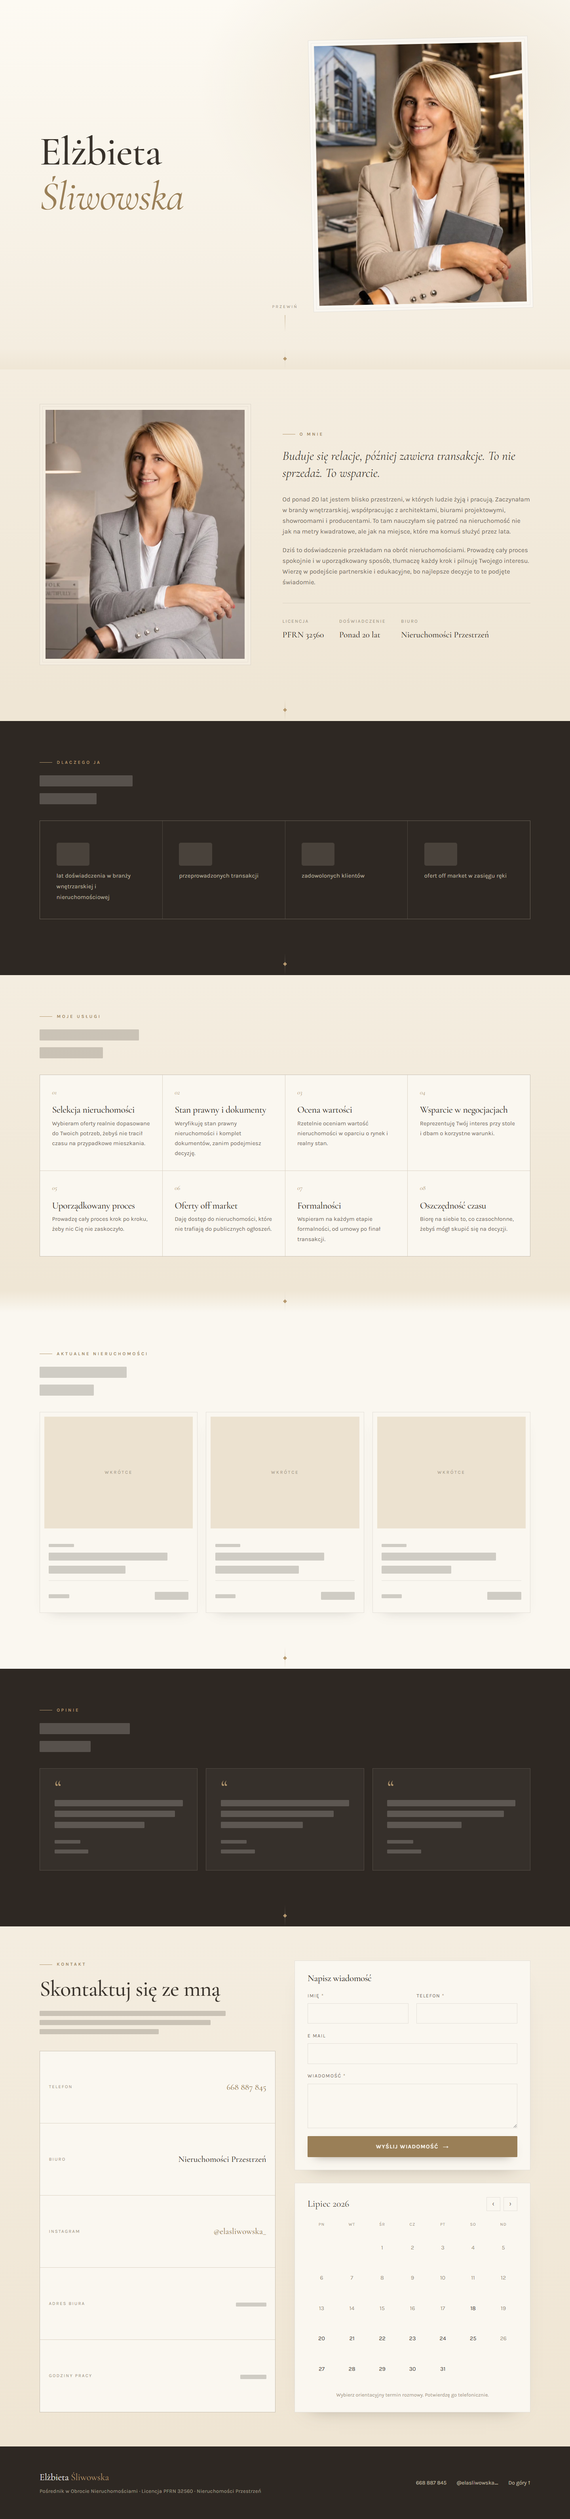
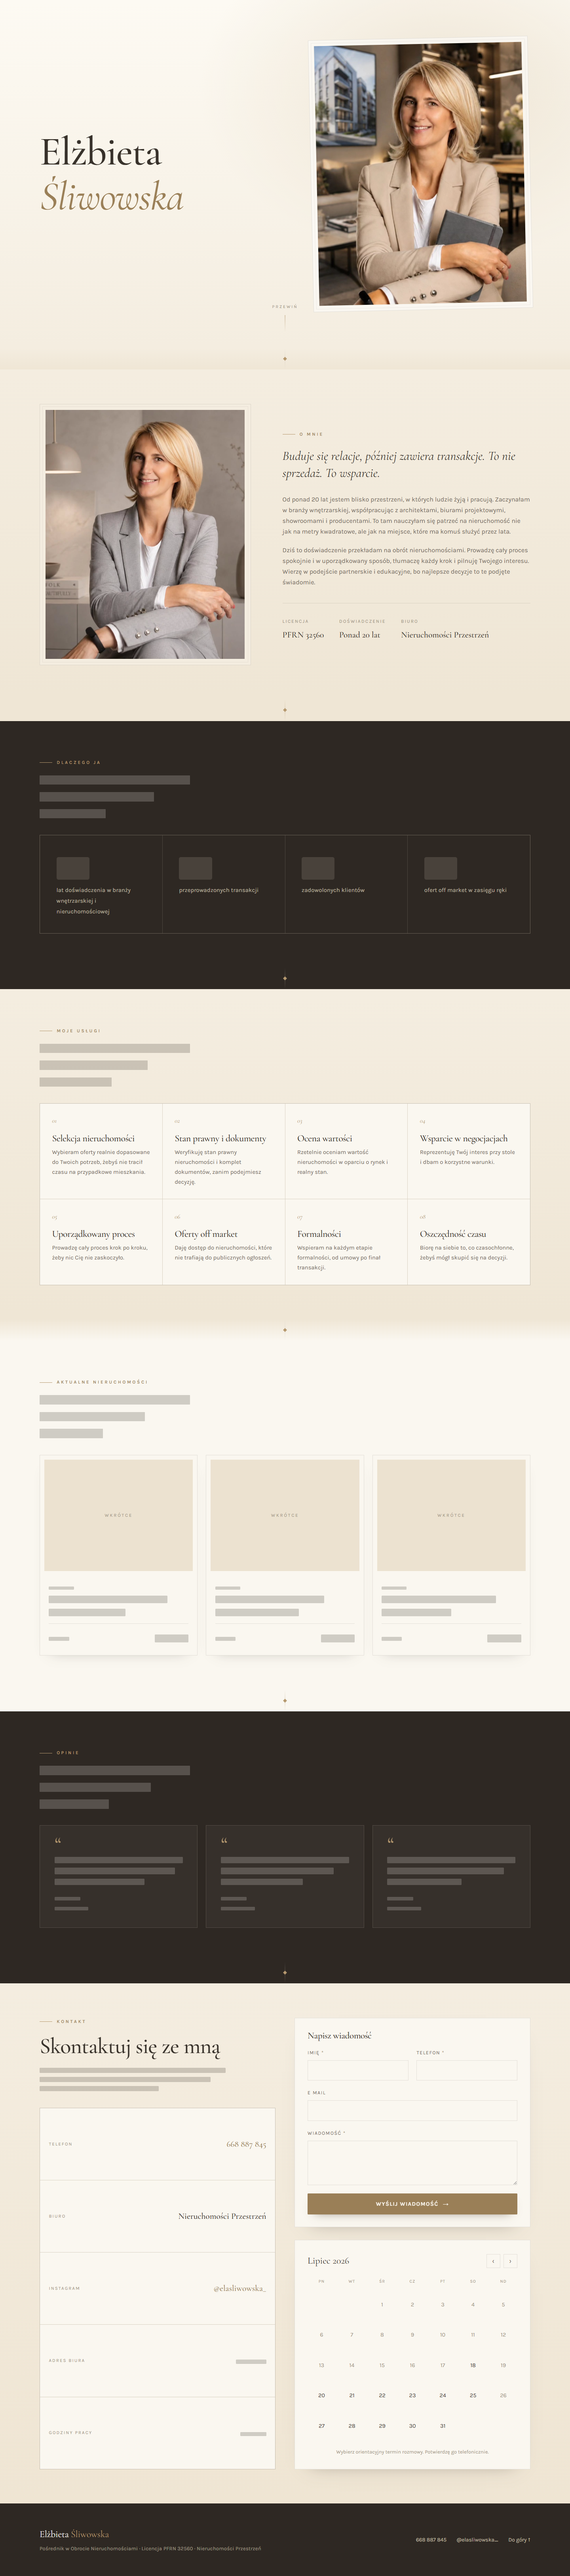
m

diff --git a/index.html b/index.html
@@ -61,8 +61,8 @@ img{display:block;max-width:100%}
 .skel-line{height:.72em;width:7ch;margin-block:.25em}
 .skel-lines{display:flex;flex-direction:column;gap:.55em;width:100%}
 .skel-lines .skel-line{margin:0;height:.78em}
-.h-sec .skel-lines{gap:.3em;max-width:18ch}
-.h-sec .skel-line{height:.5em}
+.h-sec .skel-lines{gap:.34em;max-width:20ch}
+.h-sec .skel-line{height:.42em;border-radius:1px}
 .soon{position:absolute;inset:0;z-index:3;display:flex;align-items:center;justify-content:center;font-size:.72rem;letter-spacing:.24em;text-transform:uppercase;color:var(--ink-faint)}
 
 .frame{position:relative;padding:.9rem;background:var(--cream-2);border:1px solid var(--line)}
@@ -361,7 +361,7 @@ body.no-anim .reveal>*{opacity:1;transform:none}
   <div class="shell">
     <div class="stats-head reveal">
       <div class="tag"><span class="eyebrow">Dlaczego ja</span></div>
-      <h2 class="h-sec"><span class="skel-lines" data-token="{{DLACZEGO_JA_TYTUL}}"><span class="skel skel-line" style="width:62%"></span><span class="skel skel-line" style="width:38%"></span></span></h2>
+      <h2 class="h-sec"><span class="skel-lines" data-token="{{DLACZEGO_JA_TYTUL}}"><span class="skel skel-line" style="width:100%"></span><span class="skel skel-line" style="width:76%"></span><span class="skel skel-line" style="width:44%"></span></span></h2>
     </div>
     <!-- Liczby ponizej to placeholdery. Tokeny w data-token (Ctrl F). Nigdy nie wpisuj tu wymyslonych wartosci. -->
     <div class="stats reveal">
@@ -379,7 +379,7 @@ body.no-anim .reveal>*{opacity:1;transform:none}
   <div class="shell">
     <div class="stats-head reveal">
       <div class="tag"><span class="eyebrow">Moje usługi</span></div>
-      <h2 class="h-sec"><span class="skel-lines" data-token="{{MOJE_USLUGI_TYTUL}}"><span class="skel skel-line" style="width:66%"></span><span class="skel skel-line" style="width:42%"></span></span></h2>
+      <h2 class="h-sec"><span class="skel-lines" data-token="{{MOJE_USLUGI_TYTUL}}"><span class="skel skel-line" style="width:100%"></span><span class="skel skel-line" style="width:72%"></span><span class="skel skel-line" style="width:48%"></span></span></h2>
     </div>
     <div class="svc reveal">
       <div class="svc-item"><span class="idx">01</span><h3>Selekcja nieruchomości</h3><p>Wybieram oferty realnie dopasowane do Twoich potrzeb, żebyś nie tracił czasu na przypadkowe mieszkania.</p></div>
@@ -400,7 +400,7 @@ body.no-anim .reveal>*{opacity:1;transform:none}
   <div class="shell">
     <div class="stats-head reveal">
       <div class="tag"><span class="eyebrow">Aktualne nieruchomości</span></div>
-      <h2 class="h-sec"><span class="skel-lines" data-token="{{NIERUCHOMOSCI_TYTUL}}"><span class="skel skel-line" style="width:58%"></span><span class="skel skel-line" style="width:36%"></span></span></h2>
+      <h2 class="h-sec"><span class="skel-lines" data-token="{{NIERUCHOMOSCI_TYTUL}}"><span class="skel skel-line" style="width:100%"></span><span class="skel skel-line" style="width:70%"></span><span class="skel skel-line" style="width:42%"></span></span></h2>
     </div>
     <!-- Karty ponizej to placeholdery. Tokeny w data-token (Ctrl F): tytul, lokalizacja, metraz, cena. -->
     <div class="props reveal">
@@ -438,7 +438,7 @@ body.no-anim .reveal>*{opacity:1;transform:none}
   <div class="shell">
     <div class="stats-head reveal">
       <div class="tag"><span class="eyebrow">Opinie</span></div>
-      <h2 class="h-sec"><span class="skel-lines" data-token="{{OPINIE_TYTUL}}"><span class="skel skel-line" style="width:60%"></span><span class="skel skel-line" style="width:34%"></span></span></h2>
+      <h2 class="h-sec"><span class="skel-lines" data-token="{{OPINIE_TYTUL}}"><span class="skel skel-line" style="width:100%"></span><span class="skel skel-line" style="width:74%"></span><span class="skel skel-line" style="width:46%"></span></span></h2>
     </div>
     <!-- Sekcja przygotowana pod przyszle referencje. Tokeny w data-token (Ctrl F): tresc, autor, kontekst. -->
     <div class="quotes reveal">
@@ -619,7 +619,7 @@ if (!reduceMotion && !isScreenshot && window.gsap) {
   gsap.utils.toArray('.reveal').forEach(box => {
     gsap.to(box.children, {
       opacity: 1, y: 0, duration: 0.9, ease: 'power3.out', stagger: 0.09,
-      scrollTrigger: {trigger: box, start: 'top 82%'}
+      scrollTrigger: {trigger: box, start: 'top 96%', once: true}
     })
   })
 
@@ -641,28 +641,41 @@ if (!reduceMotion && !isScreenshot && window.gsap) {
   gsap.utils.toArray('.stat, .svc-item, .prop, .quote, .channel').forEach((el, i) => {
     gsap.from(el, {
       y: 30, opacity: 0, duration: 0.8, ease: 'power3.out', delay: (i % 4) * 0.06,
-      scrollTrigger: {trigger: el, start: 'top 90%'}
+      scrollTrigger: {trigger: el, start: 'top 96%', once: true}
     })
   })
 
   gsap.utils.toArray('.h-sec').forEach(h => {
     gsap.from(h, {
-      y: 34, opacity: 0, duration: 1.1, ease: 'power4.out',
-      scrollTrigger: {trigger: h, start: 'top 88%'}
+      y: 34, duration: 1.1, ease: 'power4.out',
+      scrollTrigger: {trigger: h, start: 'top 96%', once: true}
     })
   })
 
   gsap.utils.toArray('.tag').forEach(t => {
     gsap.from(t, {
       x: -18, opacity: 0, duration: 0.8, ease: 'power3.out',
-      scrollTrigger: {trigger: t, start: 'top 92%'}
+      scrollTrigger: {trigger: t, start: 'top 96%', once: true}
     })
   })
 
   gsap.from('.foot .row > *', {
     y: 24, opacity: 0, duration: 0.9, ease: 'power3.out', stagger: 0.12,
-    scrollTrigger: {trigger: '.foot', start: 'top 92%'}
+    scrollTrigger: {trigger: '.foot', start: 'top 96%', once: true}
   })
+
+  const refresh = () => ScrollTrigger.refresh()
+  window.addEventListener('load', () => {
+    refresh()
+    setTimeout(() => {
+      refresh()
+      document.querySelectorAll('.reveal > *').forEach(el => {
+        const r = el.getBoundingClientRect()
+        if (r.top < innerHeight && getComputedStyle(el).opacity < 0.05) gsap.set(el, {opacity: 1, y: 0})
+      })
+    }, 1200)
+  })
+  if (document.fonts) document.fonts.ready.then(refresh)
 
   animateCal = () => gsap.from('#cal-grid .cal-day', {
     opacity: 0, y: 8, scale: 0.9, duration: 0.5, ease: 'power2.out', stagger: 0.012
